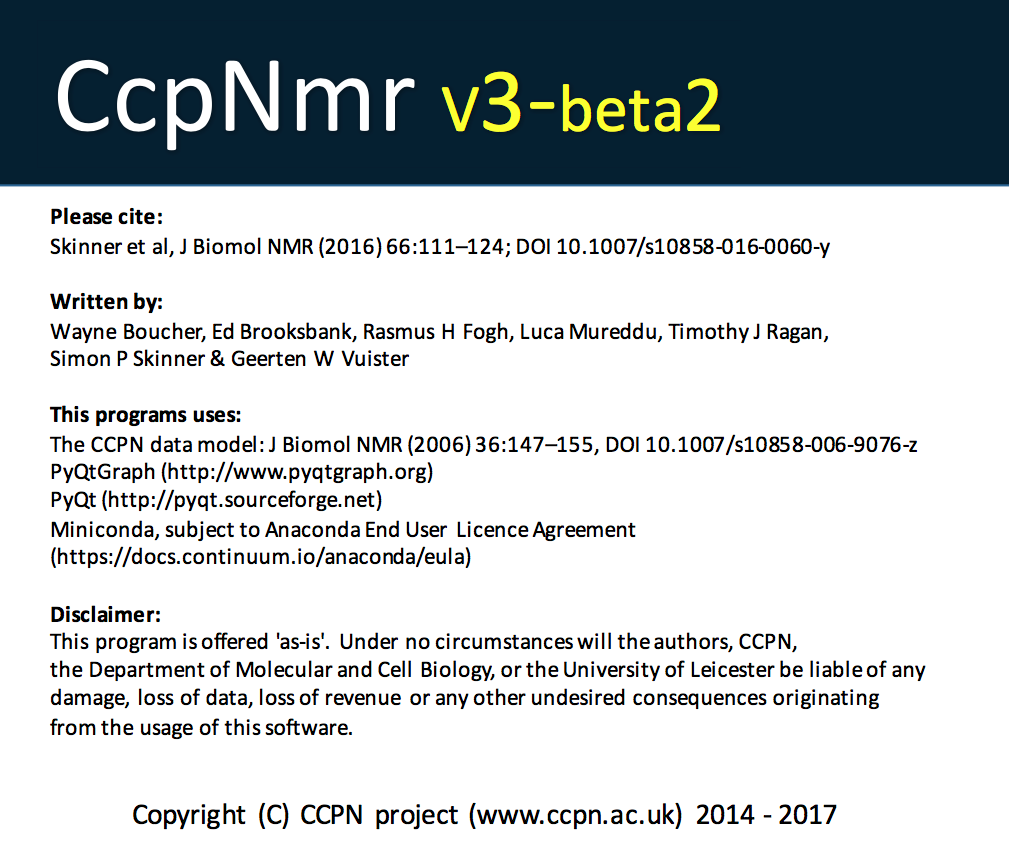
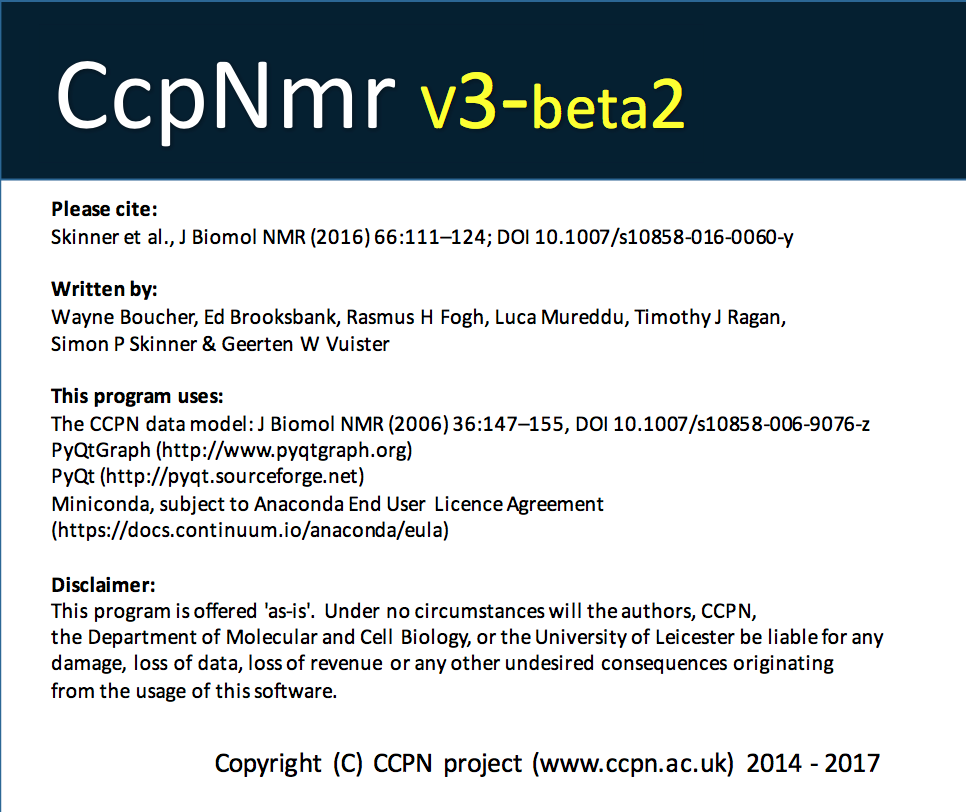
Corrected typos in about popup.

diff --git a/src/python/ccpn/ui/gui/popups/AboutPopup.py b/src/python/ccpn/ui/gui/popups/AboutPopup.py
@@ -14,9 +14,8 @@ __reference__ = ("For publications, please use reference from www.ccpn.ac.uk/lic
 #=========================================================================================
 # Last code modification:
 #=========================================================================================
-__author__ = "$Author$"
-__date__ = "$Date$"
-__version__ = "$Revision$"
+__author__ = "$Author: Luca Mureddu $"
+__date__ = "$Date: 2017-03-30 11:28:58 +0100 (Thu, March 30, 2017) $"
 
 #=========================================================================================
 # Start of code
@@ -34,12 +33,12 @@ from ccpn.ui.gui.widgets.ButtonList import ButtonList
 TEXT = ''' Copyright (C) CCPN project (www.ccpn.ac.uk) 2014 - 2017
 | 
             **Please cite: **
-            Skinner et al, J Biomol NMR (2016) 66:111–124; DOI 10.1007/s10858-016-0060-y
+            Skinner et al., J Biomol NMR (2016) 66:111–124; DOI 10.1007/s10858-016-0060-y
 
             **Written by: **
             Wayne Boucher, Ed Brooksbank, Rasmus H Fogh, Luca Mureddu, Timothy J Ragan, Simon P Skinner & Geerten W Vuister
 
-            **This programs uses:**
+            **This program uses:**
             The CCPN data model: J Biomol NMR (2006) 36:147–155, DOI 10.1007/s10858-006-9076-z 
             PyQtGraph (http://www.pyqtgraph.org)
             PyQt (http://pyqt.sourceforge.net)
@@ -47,7 +46,7 @@ TEXT = ''' Copyright (C) CCPN project (www.ccpn.ac.uk) 2014 - 2017
 
             **Disclaimer:**
             This program is offered 'as-is'. Under no circumstances will the authors, CCPN, the Department of Molecular 
-            and Cell Biology, or the University of Leicester be liable of any damage, loss of data, loss of revenue or 
+            and Cell Biology, or the University of Leicester be liable for any damage, loss of data, loss of revenue or 
             any other undesired consequences originating from the usage of this software.
         '''
 
